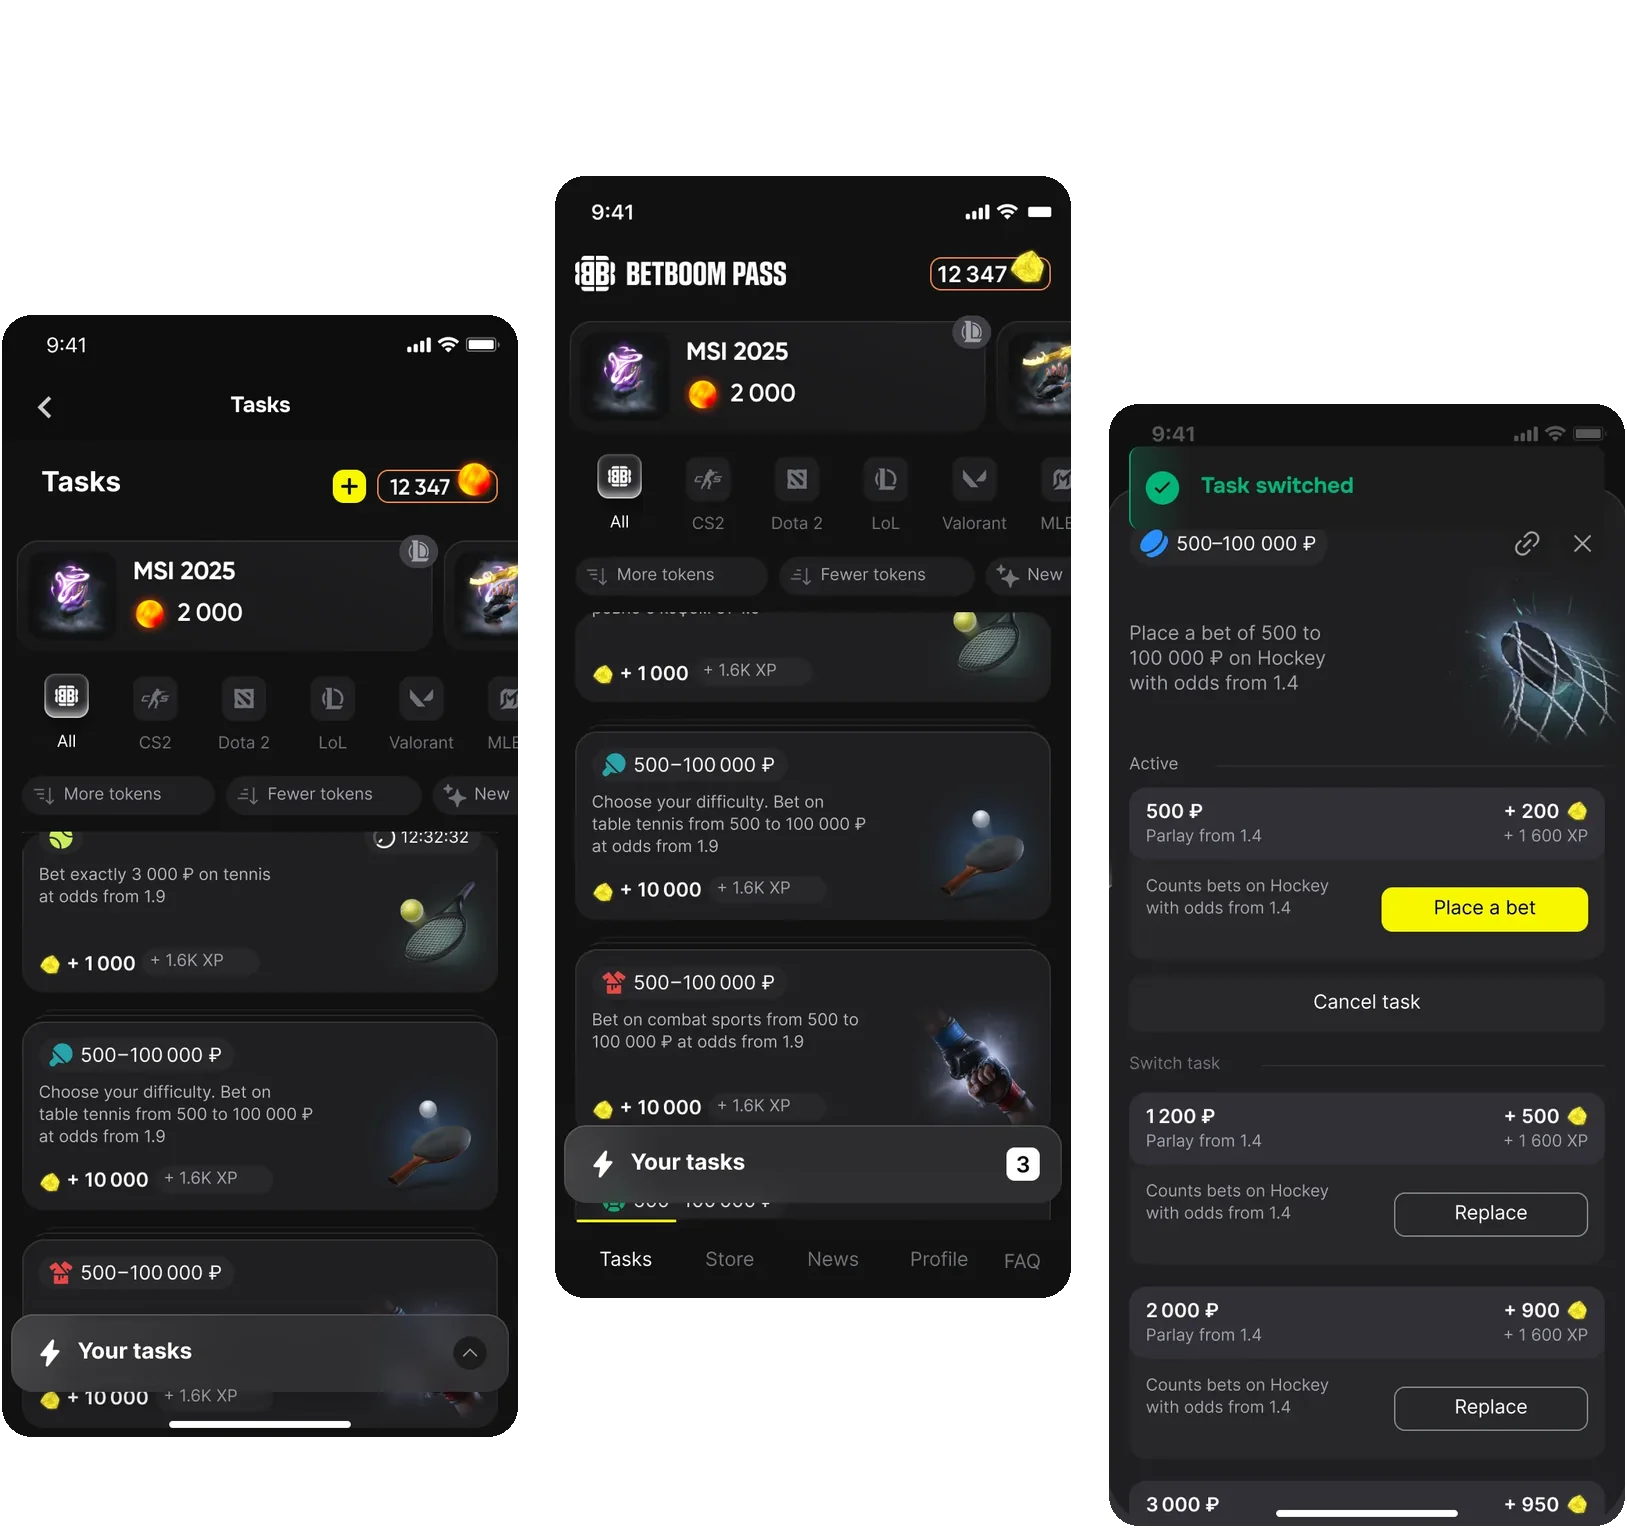
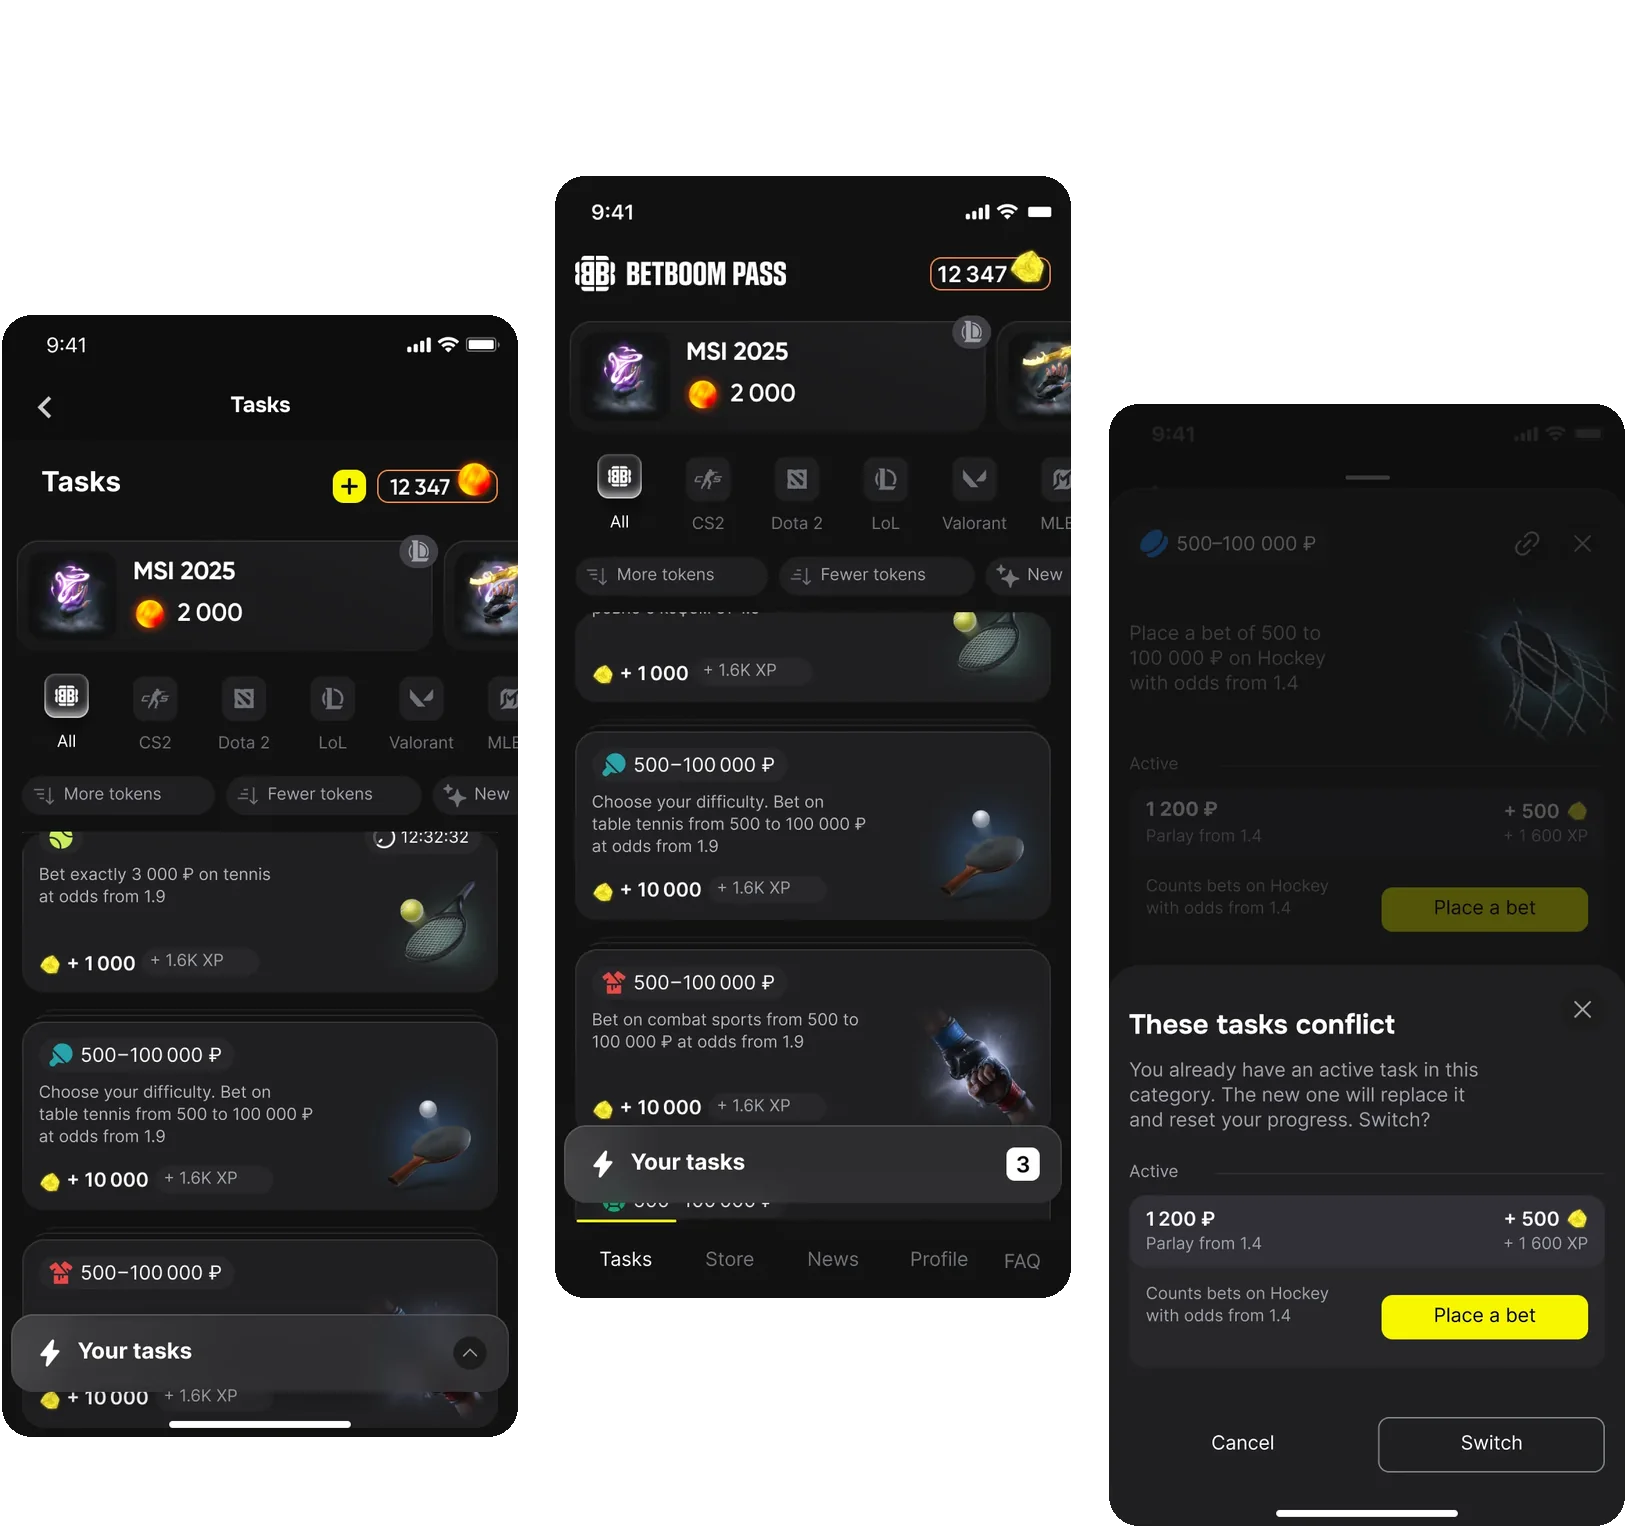
Show the tasks conflict prompt on the PASS home card instead of the toast
The switched-task screen carried a floating toast that read as cut off
next to the sheet. The third flat screen is now the same sheet with the
'These tasks conflict' prompt; outlines on the dark screens are 12% white.

diff --git a/src/data/portfolioData.ru.js b/src/data/portfolioData.ru.js
@@ -65,7 +65,7 @@ export const cases = byId(en.cases, {
     frames: [
       {
         ...entryOf(en.cases, 'betboom-pass').frames[0],
-        alt: 'Три мобильных экрана BetBoom PASS: задания, главная PASS с сезоном MSI 2025 и смена задания',
+        alt: 'Три мобильных экрана BetBoom PASS: задания, главная PASS с сезоном MSI 2025 и предупреждение «These tasks conflict»',
       },
     ],
   },

diff --git a/src/data/portfolioData.js b/src/data/portfolioData.js
@@ -131,7 +131,7 @@ export const cases = [
     frames: [
       {
         src: betboomPassHomeMobile,
-        alt: 'Three BetBoom PASS mobile screens: tasks, the PASS home with the MSI 2025 season, and a switched task',
+        alt: 'Three BetBoom PASS mobile screens: tasks, the PASS home with the MSI 2025 season, and the “These tasks conflict” prompt',
       },
     ],
     href: '/betboom-pass',
